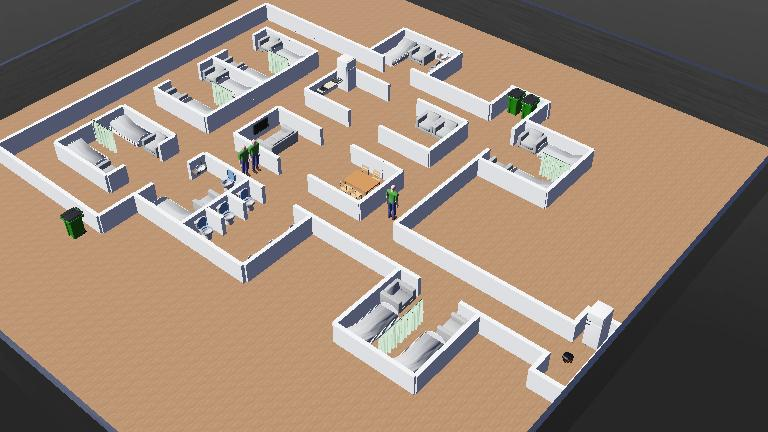
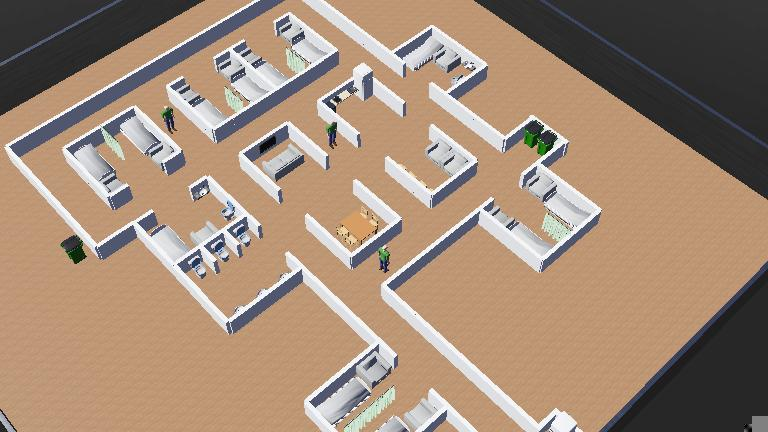
Fix: Ahora si el robot le rodean los humanos y se queda rodeado entre celdas 999, las celdas también se liberan por tiempo, haciendo así que no se quede sin poder hacer la ruta por el bloqueo

diff --git a/controllers/HALO/tasks.py b/controllers/HALO/tasks.py
@@ -1,4 +1,4 @@
-from config import (LOCATIONS, TRIGGER_CELL, GRID, BLOCK_DECAY_TRAVERSALS)
+from config import (LOCATIONS, TRIGGER_CELL, GRID, BLOCK_DECAY_TRAVERSALS, BLOCK_DECAY_SECONDS)
 from navigation import (astar, direction_from_cells, traversal_cost,
                         apply_dynamic_event, passable, block_cell,
                         tentatively_unblock_cell)
@@ -9,8 +9,8 @@ import event_log
 
 # Segundos de simulación que el robot espera cuando no hay ruta disponible,
 # para dar tiempo a que los peatones despejen el pasillo.
-WAIT_CLEAR_SECONDS = 5.0
-MAX_WAIT_ATTEMPTS = 3
+WAIT_CLEAR_SECONDS = 2.0
+MAX_WAIT_ATTEMPTS = 10
 
 
 def _wait_sim_seconds(robot, timestep, seconds):
@@ -34,6 +34,7 @@ def _force_unblock_adjacent(state, cost_map, cell, lidar_recovered):
         if adj in state["dynamic_blocked_cells"]:
             tentatively_unblock_cell(state, cost_map, adj)
             state["block_ages"].pop(adj, None)
+            state["block_times"].pop(adj, None)
             lidar_recovered.discard(adj)
             released.append(adj)
     return released
@@ -72,13 +73,29 @@ def _ql_update(q_table, cost_map, state, s, action, forward_time, s_prime):
 
 
 def _decay_blocks(state, cost_map):
-    """Envejece los bloqueos dinámicos y caduca los que superan el umbral."""
+    """Envejece los bloqueos dinámicos y caduca los que superan el umbral de traversals."""
     for cell in list(state["dynamic_blocked_cells"]):
         age = state["block_ages"].get(cell, 0) + 1
         state["block_ages"][cell] = age
         if age >= BLOCK_DECAY_TRAVERSALS:
             tentatively_unblock_cell(state, cost_map, cell)
             state["block_ages"].pop(cell, None)
+            state["block_times"].pop(cell, None)
+
+
+def _time_decay_blocks(state, cost_map, current_time):
+    """
+    Caduca bloqueos LIDAR que llevan más de BLOCK_DECAY_SECONDS activos,
+    independientemente del número de celdas recorridas.
+    Permite que el robot replanifique aunque esté parado esperando.
+    """
+    for cell in list(state["dynamic_blocked_cells"]):
+        block_time = state["block_times"].get(cell)
+        if block_time is not None and current_time - block_time >= BLOCK_DECAY_SECONDS:
+            print(f"[TIME-DECAY] Bloqueo en {cell} caducado por tiempo ({current_time - block_time:.1f}s)")
+            tentatively_unblock_cell(state, cost_map, cell)
+            state["block_ages"].pop(cell, None)
+            state["block_times"].pop(cell, None)
 
 
 def follow_route_with_replanning(robot, timestep, devices, state, cost_map, route, final_goal, cell_metrics, q_table):
@@ -139,6 +156,7 @@ def follow_route_with_replanning(robot, timestep, devices, state, cost_map, rout
             block_cell(state, next_cell)
             cost_map[next_cell[0]][next_cell[1]] = 999
             state["block_ages"][next_cell] = 0
+            state["block_times"][next_cell] = robot.getTime()
             event_log.log_block(next_cell, old_cost, cost_map, sim_time=robot.getTime())
             new_route = astar(state, cost_map, state["current_cell"], final_goal)
             local_replans += 1
@@ -151,6 +169,7 @@ def follow_route_with_replanning(robot, timestep, devices, state, cost_map, rout
                     lidar_recovered.add(next_cell)
                     tentatively_unblock_cell(state, cost_map, next_cell)
                     state["block_ages"].pop(next_cell, None)
+                    state["block_times"].pop(next_cell, None)
                     new_route = astar(state, cost_map, state["current_cell"], final_goal)
                     if new_route:
                         print(f"[RECOVERY] Ruta encontrada relajando bloqueo en {next_cell}")
@@ -162,6 +181,7 @@ def follow_route_with_replanning(robot, timestep, devices, state, cost_map, rout
                     )
                     if not _wait_sim_seconds(robot, timestep, WAIT_CLEAR_SECONDS):
                         return False, local_cells_traversed, local_replans, local_route_cost
+                    _time_decay_blocks(state, cost_map, robot.getTime())
                     released = _force_unblock_adjacent(state, cost_map, state["current_cell"], lidar_recovered)
                     if released:
                         print(f"[RECOVERY] Celdas liberadas tras espera: {released}")
@@ -187,13 +207,19 @@ def follow_route_with_replanning(robot, timestep, devices, state, cost_map, rout
             block_cell(state, next_cell)
             cost_map[next_cell[0]][next_cell[1]] = 999
             state["block_ages"][next_cell] = 0
+            state["block_times"][next_cell] = robot.getTime()
             event_log.log_block(next_cell, old_cost, cost_map, sim_time=robot.getTime())
 
-            # Usar GPS para saber dónde paró realmente el robot
+            # Usar GPS para saber dónde paró realmente el robot.
+            # Si el GPS devuelve la celda recién bloqueada (el robot frenó
+            # justo en el límite), se mantiene la posición anterior para no
+            # situar lógicamente al robot dentro de un bloqueo.
             gps_cell = read_gps_cell(devices)
-            if gps_cell is not None:
+            if gps_cell is not None and gps_cell not in state["dynamic_blocked_cells"]:
                 state["current_cell"] = gps_cell
                 print(f"[GPS] Posición tras parada de emergencia: {state['current_cell']}")
+            else:
+                print(f"[GPS] GPS indica celda bloqueada ({gps_cell}), manteniendo {state['current_cell']}")
 
             new_route = astar(state, cost_map, state["current_cell"], final_goal)
             local_replans += 1
@@ -202,6 +228,7 @@ def follow_route_with_replanning(robot, timestep, devices, state, cost_map, rout
                     lidar_recovered.add(next_cell)
                     tentatively_unblock_cell(state, cost_map, next_cell)
                     state["block_ages"].pop(next_cell, None)
+                    state["block_times"].pop(next_cell, None)
                     new_route = astar(state, cost_map, state["current_cell"], final_goal)
                     if new_route:
                         print(f"[RECOVERY] Ruta encontrada relajando bloqueo en {next_cell}")
@@ -213,6 +240,7 @@ def follow_route_with_replanning(robot, timestep, devices, state, cost_map, rout
                     )
                     if not _wait_sim_seconds(robot, timestep, WAIT_CLEAR_SECONDS):
                         return False, local_cells_traversed, local_replans, local_route_cost
+                    _time_decay_blocks(state, cost_map, robot.getTime())
                     released = _force_unblock_adjacent(state, cost_map, state["current_cell"], lidar_recovered)
                     if released:
                         print(f"[RECOVERY] Celdas liberadas tras espera: {released}")
@@ -273,6 +301,7 @@ def follow_route_with_replanning(robot, timestep, devices, state, cost_map, rout
         s_prime = route[route_index + 1] if route_index + 1 < len(route) else None
         _ql_update(q_table, cost_map, state, state["current_cell"], target_heading, forward_time, s_prime)
         _decay_blocks(state, cost_map)
+        _time_decay_blocks(state, cost_map, robot.getTime())
 
         # --- 3. Evento dinámico en TRIGGER_CELL ---
         if state["current_cell"] == TRIGGER_CELL and not state["replan_already_done"]:
@@ -325,8 +354,19 @@ def execute_task(robot, timestep, devices, state, cost_map, task_metrics, cell_m
     replans = 0
     executed_route_cost = 0
 
+    # Liberar bloqueos caducados por tiempo antes de planificar,
+    # por si el robot llegó aquí tras completar una tarea sin pasar
+    # por suficientes celdas para que el decay se activara.
+    _time_decay_blocks(state, cost_map, robot.getTime())
+
     if not origin_from_current and state["current_cell"] != origin:
         route_to_origin = astar(state, cost_map, state["current_cell"], origin)
+        if not route_to_origin:
+            # Reintento tras liberar bloqueos dinámicos adyacentes al punto de partida
+            released = _force_unblock_adjacent(state, cost_map, state["current_cell"], set())
+            if released:
+                print(f"[RECOVERY] Celdas liberadas para ruta al origen: {released}")
+                route_to_origin = astar(state, cost_map, state["current_cell"], origin)
         print("Ruta hasta el origen:", route_to_origin)
 
         if route_to_origin and len(route_to_origin) >= 2:
@@ -344,6 +384,12 @@ def execute_task(robot, timestep, devices, state, cost_map, task_metrics, cell_m
             return False
 
     route_to_destination = astar(state, cost_map, state["current_cell"], destination)
+    if not route_to_destination:
+        # Reintento tras liberar bloqueos dinámicos adyacentes al punto de partida
+        released = _force_unblock_adjacent(state, cost_map, state["current_cell"], set())
+        if released:
+            print(f"[RECOVERY] Celdas liberadas para ruta al destino: {released}")
+            route_to_destination = astar(state, cost_map, state["current_cell"], destination)
     print("Ruta de entrega:", route_to_destination)
 
     if not route_to_destination:

diff --git a/controllers/random_pedestrian/random_pedestrian.py b/controllers/random_pedestrian/random_pedestrian.py
@@ -19,27 +19,27 @@ GRID = [
     [1, 1, 1, 1, 1, 1, 1, 1, 1, 1, 1, 1, 1, 1, 1, 1, 1, 1, 1, 1, 1, 1],  # row 0, y=13.00
     [1, 0, 0, 0, 0, 0, 0, 0, 0, 0, 0, 0, 0, 0, 0, 0, 0, 0, 1, 1, 1, 1],  # row 1, y=12.00
     [1, 0, 1, 1, 1, 1, 1, 0, 1, 1, 0, 1, 1, 1, 0, 1, 1, 0, 1, 1, 1, 1],  # row 2, y=11.00
-    [1, 0, 1, 0, 0, 0, 1, 0, 1, 0, 0, 0, 1, 0, 0, 0, 1, 0, 1, 1, 1, 1],  # row 3, y=10.00
-    [1, 0, 1, 0, 0, 0, 1, 0, 1, 0, 0, 0, 1, 0, 0, 0, 1, 0, 1, 1, 1, 1],  # row 4, y=9.00
-    [1, 0, 1, 0, 0, 0, 1, 0, 1, 0, 0, 0, 1, 0, 0, 0, 1, 0, 1, 1, 1, 1],  # row 5, y=8.00
+    [1, 0, 1, 1, 1, 1, 1, 0, 1, 1, 1, 1, 1, 1, 1, 1, 1, 0, 1, 1, 1, 1],  # row 3, y=10.00
+    [1, 0, 1, 1, 1, 1, 1, 0, 1, 1, 1, 1, 1, 1, 1, 1, 1, 0, 1, 1, 1, 1],  # row 4, y=9.00
+    [1, 0, 1, 1, 0, 1, 1, 0, 1, 0, 0, 0, 1, 0, 0, 0, 1, 0, 1, 1, 1, 1],  # row 5, y=8.00
     [1, 0, 1, 1, 0, 1, 1, 0, 1, 1, 1, 1, 1, 1, 1, 1, 1, 0, 1, 1, 1, 1],  # row 6, y=7.00
     [1, 0, 0, 0, 0, 0, 0, 0, 0, 0, 0, 0, 0, 0, 0, 0, 0, 0, 1, 1, 1, 1],  # row 7, y=6.00
     [1, 1, 1, 1, 0, 1, 1, 0, 1, 1, 1, 1, 0, 1, 1, 1, 1, 0, 1, 1, 1, 1],  # row 8, y=5.00
-    [1, 1, 1, 0, 0, 0, 1, 0, 1, 0, 0, 1, 0, 1, 0, 0, 1, 0, 1, 0, 0, 1],  # row 9, y=4.00
-    [1, 1, 1, 0, 0, 0, 1, 0, 1, 0, 0, 1, 0, 1, 0, 0, 1, 0, 0, 0, 0, 1],  # row 10, y=3.00
-    [1, 1, 1, 1, 1, 1, 1, 0, 1, 0, 0, 1, 0, 1, 0, 0, 1, 0, 1, 0, 0, 1],  # row 11, y=2.00
-    [1, 1, 1, 1, 0, 1, 1, 0, 0, 0, 0, 0, 0, 0, 0, 0, 0, 0, 1, 1, 1, 1],  # row 12, y=1.00
-    [1, 1, 1, 0, 0, 0, 0, 0, 1, 0, 0, 1, 0, 1, 0, 0, 1, 0, 1, 1, 1, 1],  # row 13, y=0.00
-    [1, 1, 1, 0, 0, 0, 1, 0, 1, 0, 0, 1, 0, 1, 0, 0, 1, 0, 1, 1, 1, 1],  # row 14, y=-1.00
-    [1, 1, 1, 1, 1, 1, 1, 0, 1, 0, 0, 1, 0, 1, 0, 0, 1, 0, 1, 1, 1, 1],  # row 15, y=-2.00
+    [1, 1, 1, 1, 0, 1, 1, 0, 1, 1, 1, 1, 0, 1, 1, 1, 1, 0, 1, 1, 1, 1],  # row 9, y=4.00
+    [1, 1, 1, 1, 1, 1, 1, 0, 1, 1, 1, 1, 0, 1, 1, 1, 1, 0, 0, 0, 1, 1],  # row 10, y=3.00
+    [1, 1, 1, 1, 1, 1, 1, 0, 1, 0, 0, 1, 0, 1, 0, 0, 1, 0, 1, 1, 1, 1],  # row 11, y=2.00
+    [1, 1, 1, 1, 1, 1, 1, 0, 0, 0, 0, 0, 0, 0, 0, 0, 0, 0, 1, 1, 1, 1],  # row 12, y=1.00
+    [1, 1, 1, 1, 1, 0, 0, 0, 1, 0, 0, 1, 0, 1, 0, 0, 1, 0, 1, 1, 1, 1],  # row 13, y=0.00
+    [1, 1, 1, 1, 1, 1, 1, 0, 1, 1, 1, 1, 0, 1, 1, 1, 1, 0, 1, 1, 1, 1],  # row 14, y=-1.00
+    [1, 1, 1, 1, 1, 1, 1, 0, 1, 1, 1, 1, 0, 1, 1, 1, 1, 0, 1, 1, 1, 1],  # row 15, y=-2.00
     [1, 1, 1, 1, 1, 1, 1, 0, 1, 1, 1, 1, 0, 1, 1, 1, 1, 0, 1, 1, 1, 1],  # row 16, y=-3.00
-    [1, 1, 1, 1, 1, 1, 1, 1, 0, 0, 0, 0, 0, 0, 0, 0, 0, 0, 0, 0, 1, 1],  # row 17, y=-4.00
+    [1, 1, 1, 1, 1, 1, 1, 1, 0, 0, 0, 0, 0, 0, 0, 0, 0, 0, 0, 1, 1, 1],  # row 17, y=-4.00
     [1, 1, 1, 1, 1, 1, 1, 1, 1, 1, 1, 1, 1, 1, 1, 1, 0, 1, 1, 1, 1, 1],  # row 18, y=-5.00
-    [1, 1, 1, 1, 1, 1, 1, 1, 1, 1, 1, 1, 1, 1, 1, 0, 0, 0, 1, 1, 1, 1],  # row 19, y=-6.00
-    [1, 1, 1, 1, 1, 1, 1, 1, 1, 1, 1, 1, 1, 1, 1, 0, 0, 0, 1, 1, 1, 1],  # row 20, y=-7.00
-    [1, 1, 1, 0, 0, 0, 1, 1, 1, 1, 1, 1, 1, 1, 1, 0, 0, 0, 1, 1, 1, 1],  # row 21, y=-8.00
-    [1, 1, 1, 0, 0, 0, 0, 1, 1, 1, 1, 1, 1, 1, 1, 1, 1, 1, 1, 1, 1, 1],  # row 22, y=-9.00
-    [1, 1, 1, 0, 0, 0, 1, 1, 1, 1, 1, 1, 1, 1, 1, 1, 1, 1, 1, 1, 1, 1],  # row 23, y=-10.00
+    [1, 1, 1, 1, 1, 1, 1, 1, 1, 1, 1, 1, 1, 1, 1, 1, 1, 1, 1, 1, 1, 1],  # row 19, y=-6.00
+    [1, 1, 1, 1, 1, 1, 1, 1, 1, 1, 1, 1, 1, 1, 1, 1, 1, 1, 1, 1, 1, 1],  # row 20, y=-7.00
+    [1, 1, 1, 1, 1, 1, 1, 1, 1, 1, 1, 1, 1, 1, 1, 1, 1, 1, 1, 1, 1, 1],  # row 21, y=-8.00
+    [1, 1, 1, 1, 1, 1, 1, 1, 1, 1, 1, 1, 1, 1, 1, 1, 1, 1, 1, 1, 1, 1],  # row 22, y=-9.00
+    [1, 1, 1, 1, 1, 1, 1, 1, 1, 1, 1, 1, 1, 1, 1, 1, 1, 1, 1, 1, 1, 1],  # row 23, y=-10.00
     [1, 1, 1, 1, 1, 1, 1, 1, 1, 1, 1, 1, 1, 1, 1, 1, 1, 1, 1, 1, 1, 1],  # row 24, y=-11.00
     [1, 1, 1, 1, 1, 1, 1, 1, 1, 1, 1, 1, 1, 1, 1, 1, 1, 1, 1, 1, 1, 1],  # row 25, y=-12.00
     [1, 1, 1, 1, 1, 1, 1, 1, 1, 1, 1, 1, 1, 1, 1, 1, 1, 1, 1, 1, 1, 1],  # row 26, y=-13.00
@@ -239,7 +239,7 @@ class RandomPedestrian(Supervisor):
 
 def build_arg_parser():
     parser = argparse.ArgumentParser()
-    parser.add_argument("--speed", type=float, default=1.0, help="Walking speed (m/s).")
+    parser.add_argument("--speed", type=float, default=0.3, help="Walking speed (m/s).")
     parser.add_argument("--step", type=int, default=0, help="Controller timestep (ms).")
     parser.add_argument("--pause-min", type=float, default=0.2, help="Min pause at cell (s).")
     parser.add_argument("--pause-max", type=float, default=1.0, help="Max pause at cell (s).")

diff --git a/controllers/HALO/config.py b/controllers/HALO/config.py
@@ -47,7 +47,7 @@ LEFT_SENSOR_CANDIDATES = ROBOT["left_sensor_candidates"]
 RIGHT_SENSOR_CANDIDATES = ROBOT["right_sensor_candidates"]
 PROXIMITY_SENSOR_CANDIDATE_GROUPS = ROBOT["prox_sensor_candidate_groups"]
 
-SLOW_SPEED_FACTOR = 0.2
+SLOW_SPEED_FACTOR = 0.7
 
 # Parametros de robustez para control por odometria.
 FORWARD_TIMEOUT_FACTOR = float(os.getenv("HALO_FORWARD_TIMEOUT_FACTOR", "2.5"))
@@ -91,6 +91,9 @@ AUTO_DELAY_THRESHOLD_RATIO = float(os.getenv("HALO_AUTO_DELAY_THRESHOLD_RATIO", 
 # Celdas totales recorridas antes de que un bloqueo LIDAR caduque y el robot
 # lo intente de nuevo con coste alto (passable, pero caro).
 BLOCK_DECAY_TRAVERSALS = 15
+# Segundos de simulación tras los que un bloqueo LIDAR caduca por tiempo,
+# independientemente del número de celdas recorridas.
+BLOCK_DECAY_SECONDS = 30
 # Coste asignado a una celda cuando su bloqueo LIDAR caduca.
 TENTATIVE_BLOCK_COST = 25
 

diff --git a/controllers/HALO/HALO.py b/controllers/HALO/HALO.py
@@ -144,7 +144,8 @@ state = {
     "replan_already_done": False,
     "dynamic_blocked_cells": set(),
     "cell_states": cell_states,
-    "block_ages": {},  # cell -> nº de celdas recorridas desde que se bloqueó
+    "block_ages": {},   # cell -> nº de celdas recorridas desde que se bloqueó
+    "block_times": {},  # cell -> tiempo de simulación (s) en que se bloqueó
 }
 
 idle_return_pending = True